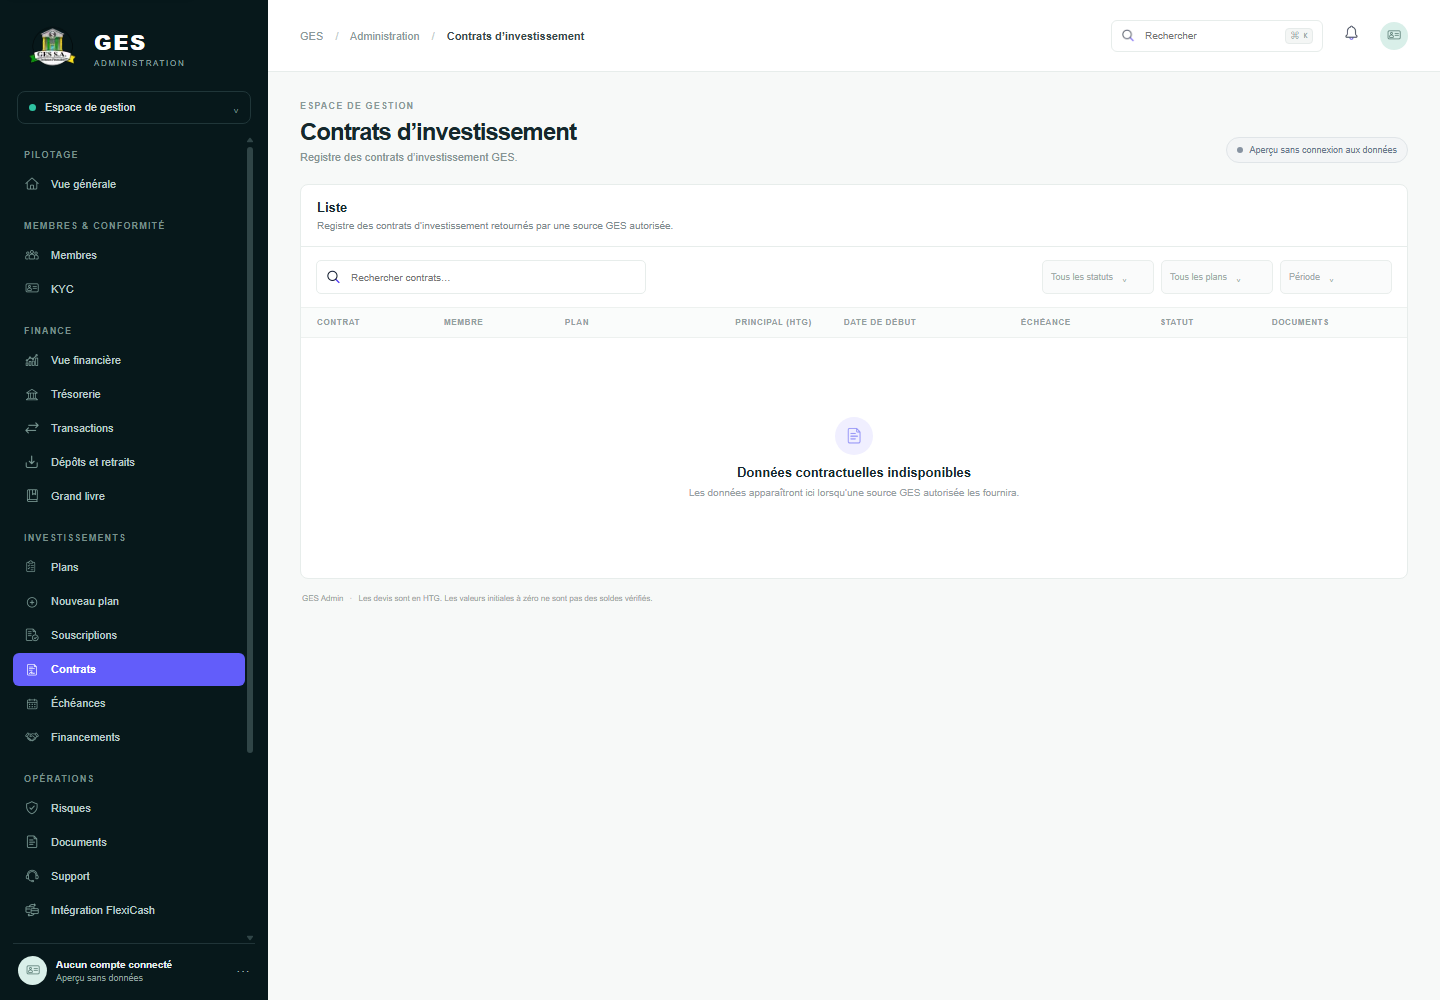
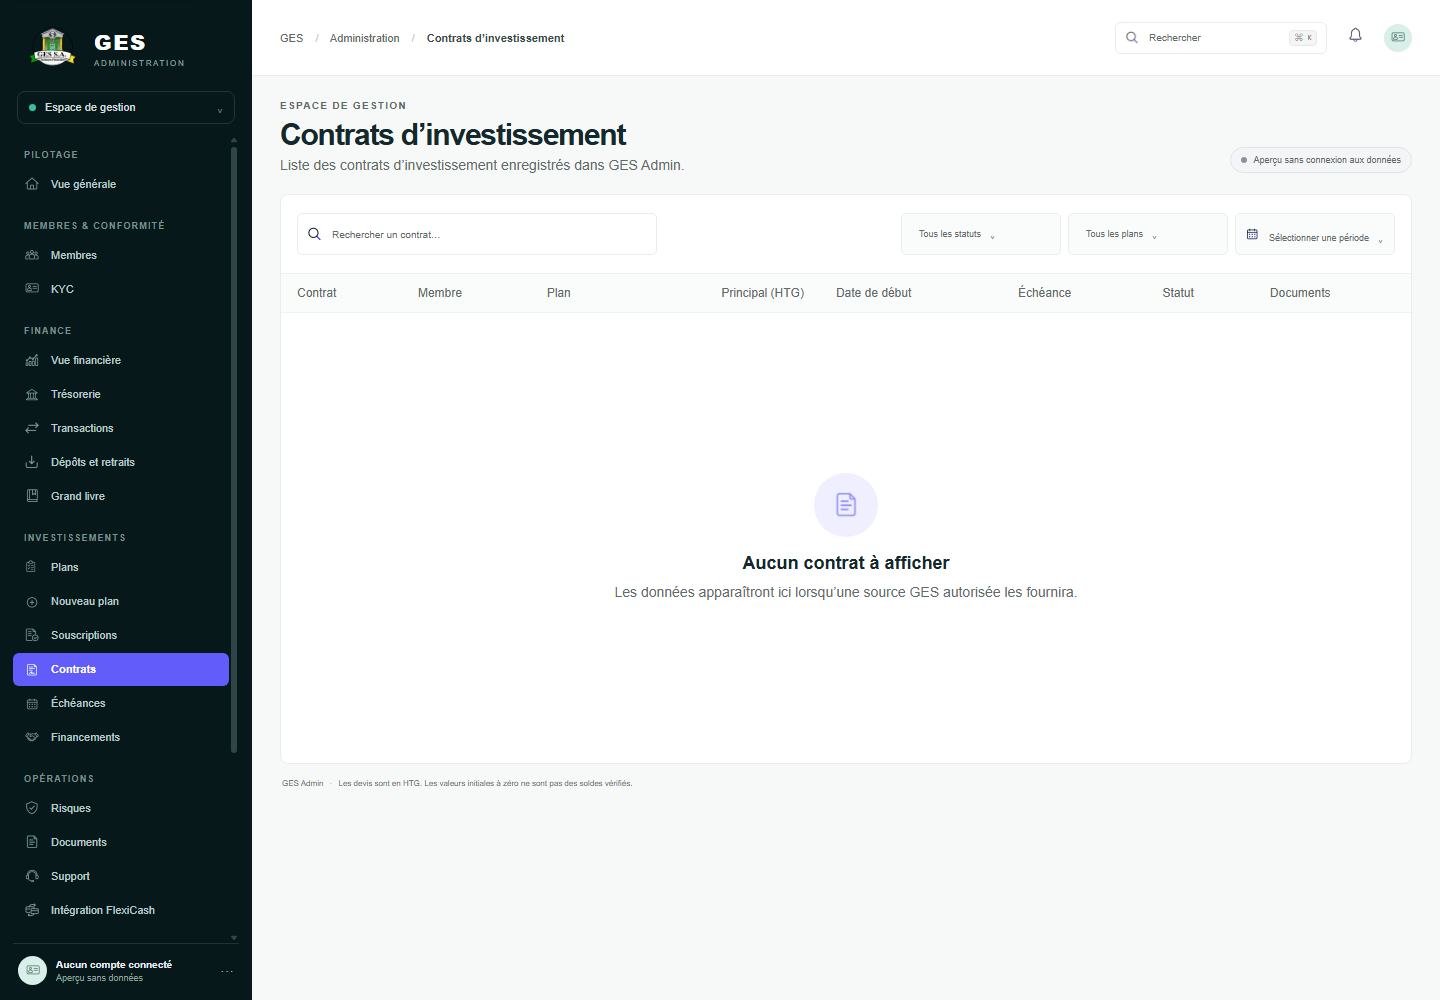
Align contract register with MF-18

diff --git a/components/module-workspace.tsx b/components/module-workspace.tsx
@@ -19,7 +19,7 @@ const pages: Record<string, ModulePage> = {
   "depots-retraits": { description: "Suivez les dépôts et retraits liés aux opérations GES.", filters: ["Tous les statuts", "Période"], tabs: ["Toutes les opérations", "Dépôts", "Retraits"], columns: ["DATE", "RÉFÉRENCE", "MEMBRE", "TYPE", "MONTANT (HTG)", "STATUT"], empty: "Données opérationnelles indisponibles" },
   plans: { description: "Catalogue des plans d’investissement autorisés sur GES Admin.", filters: ["Tous les statuts", "Trier par"], columns: ["PLAN", "DEVISE", "RENDEMENT", "DURÉE", "STATUT", "ACTIONS"], empty: "Données des plans indisponibles" },
   souscriptions: { description: "Consultez les souscriptions retournées par une source GES autorisée.", searchPlaceholder: "Rechercher une souscription…", filters: ["Tous les statuts", "Tous les plans"], columns: ["Date", "Plan", "Membre", "Montant investi (HTG)", "Statut", "Actions"], empty: "Données de souscription indisponibles" },
-  contrats: { description: "Registre des contrats d’investissement retournés par une source GES autorisée.", filters: ["Tous les statuts", "Tous les plans", "Période"], columns: ["CONTRAT", "MEMBRE", "PLAN", "PRINCIPAL (HTG)", "DATE DE DÉBUT", "ÉCHÉANCE", "STATUT", "DOCUMENTS"], empty: "Données contractuelles indisponibles" },
+  contrats: { description: "Registre des contrats d’investissement retournés par une source GES autorisée.", searchPlaceholder: "Rechercher un contrat…", filters: ["Tous les statuts", "Tous les plans", "Sélectionner une période"], columns: ["Contrat", "Membre", "Plan", "Principal (HTG)", "Date de début", "Échéance", "Statut", "Documents"], empty: "Aucun contrat à afficher" },
   financements: { description: "Dossiers de financement relevant de GES.", filters: ["Tous les statuts", "Tous les types"], columns: ["PROJET OU BÉNÉFICIAIRE", "MONTANT PROPOSÉ (HTG)", "ÉVALUATION DU RISQUE", "DOCUMENTS", "STATUT", "ÉTAPES"], empty: "Données de financement indisponibles" },
   risques: { description: "Surveillez les risques et alertes disponibles pour GES.", filters: ["Toutes les catégories", "Toutes les sévérités", "Tous les statuts"], columns: ["SÉVÉRITÉ", "CATÉGORIE", "ENTITÉ GES", "ANALYSTE ASSIGNÉ", "STATUT", "ACTIONS"], empty: "Données de risque indisponibles" },
   documents: { description: "Documents disponibles dans les espaces GES autorisés.", filters: ["Tous les types"], columns: ["DOCUMENT", "CATÉGORIE", "LIÉ À", "MODIFIÉ LE", "ÉTAT"], empty: "Données documentaires indisponibles" },
@@ -73,5 +73,5 @@ export function ModuleWorkspace({ sectionKey, query, onQueryChange }: { sectionK
 }
 
 function GenericTable({ sectionKey, page, query, onQueryChange, activeTab, setActiveTab }: { sectionKey: string; page: ModulePage; query: string; onQueryChange: (value: string) => void; activeTab: number; setActiveTab: (value: number) => void }) {
-  return <section className="panel list-panel module-list-panel">{page.tabs && <div className="module-tabs">{page.tabs.map((tab, index) => <button key={tab} className={activeTab === index ? "selected" : ""} onClick={() => setActiveTab(index)}>{tab}</button>)}</div>}<div className="module-toolbar"><label className="filter-search"><Image src="/assets/icons/search.webp" alt="" width={16} height={16}/><input aria-label={`Rechercher dans ${sectionKey}`} placeholder={page.searchPlaceholder ?? `Rechercher ${sectionKey.replaceAll("-", " ")}…`} value={query} onChange={(event) => onQueryChange(event.target.value)}/></label><div className="module-filter-row">{page.filters.map((filter) => <button key={filter} className="filter-button" disabled>{filter}<span>⌄</span></button>)}</div></div><div className="table-wrap"><table><thead><tr>{page.columns.map((column, index) => <th key={column} className={column.includes("HTG") ? "align-right" : ""}>{column}</th>)}</tr></thead><tbody><tr><td colSpan={page.columns.length}><EmptyState title={page.empty} searching={query.trim().length > 0}/></td></tr></tbody></table></div></section>;
+  return <section className="panel list-panel module-list-panel">{page.tabs && <div className="module-tabs">{page.tabs.map((tab, index) => <button key={tab} className={activeTab === index ? "selected" : ""} onClick={() => setActiveTab(index)}>{tab}</button>)}</div>}<div className="module-toolbar"><label className="filter-search"><Image src="/assets/icons/search.webp" alt="" width={16} height={16}/><input aria-label={`Rechercher dans ${sectionKey}`} placeholder={page.searchPlaceholder ?? `Rechercher ${sectionKey.replaceAll("-", " ")}…`} value={query} onChange={(event) => onQueryChange(event.target.value)}/></label><div className="module-filter-row">{page.filters.map((filter) => <button key={filter} className="filter-button" disabled>{filter.startsWith("Sélectionner une période") && <Image className="period-filter-icon" src="/assets/icons/calendar.webp" alt="" width={16} height={16}/>}<span className="filter-label">{filter}</span><span>⌄</span></button>)}</div></div><div className="table-wrap"><table><thead><tr>{page.columns.map((column, index) => <th key={column} className={column.includes("HTG") ? "align-right" : ""}>{column}</th>)}</tr></thead><tbody><tr><td colSpan={page.columns.length}><EmptyState title={page.empty} searching={query.trim().length > 0}/></td></tr></tbody></table></div></section>;
 }

diff --git a/components/admin-shell.tsx b/components/admin-shell.tsx
@@ -25,7 +25,7 @@ const pages: Record<string, { title: string; subtitle: string }> = {
   membres: { title: "Membres", subtitle: "Consultez et gérez les comptes membres." }, kyc: { title: "Conformité KYC", subtitle: "Vérification des dossiers" },
   "vue-financiere": { title: "Vue financière générale", subtitle: "Aperçu de la position financière de GES Admin en HTG et USD." }, tresorerie: { title: "Trésorerie", subtitle: "Positions de trésorerie" }, transactions: { title: "Transactions", subtitle: "Consultez et gérez l’ensemble des transactions." },
   "depots-retraits": { title: "Dépôts et retraits", subtitle: "Suivi des mouvements entrants et sortants" }, "grand-livre": { title: "Grand livre et rapprochement", subtitle: "Consultation du grand livre comptable et rapprochement des soldes." }, plans: { title: "Catalogue des plans d’investissement", subtitle: "Vue d’ensemble des plans d’investissement autorisés sur GES Admin." },
-  souscriptions: { title: "Souscriptions", subtitle: "Vue d’ensemble des souscriptions effectuées sur GES Admin." }, contrats: { title: "Contrats d’investissement", subtitle: "Registre des contrats d’investissement GES." }, echeances: { title: "Échéances", subtitle: "Calendrier des échéances" }, financements: { title: "Financements", subtitle: "Suivi des financements" }, "plans/nouveau": { title: "Nouveau plan d’investissement", subtitle: "Créer un nouveau plan d’investissement (brouillon)." },
+  souscriptions: { title: "Souscriptions", subtitle: "Vue d’ensemble des souscriptions effectuées sur GES Admin." }, contrats: { title: "Contrats d’investissement", subtitle: "Liste des contrats d’investissement enregistrés dans GES Admin." }, echeances: { title: "Échéances", subtitle: "Calendrier des échéances" }, financements: { title: "Financements", subtitle: "Suivi des financements" }, "plans/nouveau": { title: "Nouveau plan d’investissement", subtitle: "Créer un nouveau plan d’investissement (brouillon)." },
   risques: { title: "Risques", subtitle: "Suivi des alertes et contrôles" }, documents: { title: "Documents", subtitle: "Bibliothèque documentaire" }, support: { title: "Support", subtitle: "Demandes d’assistance" }, rapports: { title: "Rapports", subtitle: "Rapports de gestion" }, equipe: { title: "Équipe", subtitle: "Accès et rôles de l’équipe" }, audit: { title: "Audit", subtitle: "Journal des actions administratives" }, parametres: { title: "Paramètres", subtitle: "Configuration de l’espace" }, notifications: { title: "Notifications", subtitle: "Centre de notifications administratives" }, "roles-permissions": { title: "Rôles et permissions", subtitle: "Les permissions effectives sont contrôlées côté serveur" }, "integrations-flexicash": { title: "Intégration FlexiCash", subtitle: "Les espaces GES et FlexiCash restent séparés" },
 };
 

diff --git a/design/project-status.md b/design/project-status.md
@@ -53,3 +53,5 @@ Revue MF-14 (29 octobre 2026) : titre et sous-titre aligns sur la reference; tit
 Revue MF-16 (29 octobre 2026) : sous-titre, recherche et casse des colonnes rapproches de la reference. Les captures desktop/mobile montrent une liste sans souscription fictive; les montants sont identifies en HTG. Chrome confirme l'absence de debordement horizontal de page a 1440 px et 390 px. Comparaison MF-01 a MF-34 regeneree; MF-02 attend une session MFA reelle.
 
 Revue MF-17 (29 octobre 2026) : lien de retour avant le titre, titre/sous-titre alignes sur la reference, huit cartes detaillees avec icones distinctes et panneau d'actions verrouille. Aucun engagement, identite ou document fictif. Captures desktop/mobile; le navigateur confirme le titre, l'etat vide et aucune largeur de page superieure au viewport (1440/390 px). MF-17 reste non verrouille en attente de revue complete du shell.
+
+Revue MF-18 (29 octobre 2026) : sous-titre, recherche, filtres (dont icone de periode) et huit colonnes rapproches de la reference. Aucun contrat ni terme financier fictif; principal affiche en HTG. Captures desktop/mobile confirment l'etat vide et l'absence de debordement horizontal du viewport (1440/390 px).

diff --git a/design/qa/README.md b/design/qa/README.md
@@ -149,3 +149,5 @@ Revue MF-14 : les captures admin-plans-1440x1000.png et admin-plans-390x844.png 
 Captures MF-16 : admin-souscriptions-1440x1000.png et admin-souscriptions-390x844.png. La liste reste vide tant qu'aucune source GES autorisee ne fournit les donnees; les montants sont libelles en HTG. Les neuf planches MF-01 a MF-34 ont ete regenerees apres les changements de MF-14/MF-16.
 
 Captures MF-17 mises a jour : admin-souscriptions-dossier-1440x1000.png et admin-souscriptions-dossier-390x844.png. Le retour precede le titre; huit panneaux restent indisponibles sans souscription reelle et les actions sont inactives. Aucun engagement ni montant fictif.
+
+Captures MF-18 : admin-contrats-1440x1000.png et admin-contrats-390x844.png. Le registre est vide, le principal est libelle en HTG et les filtres de statut, plan et periode restent inactifs sans source de donnees.
